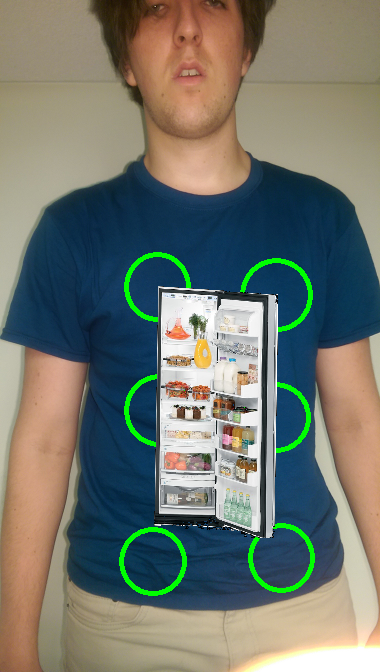
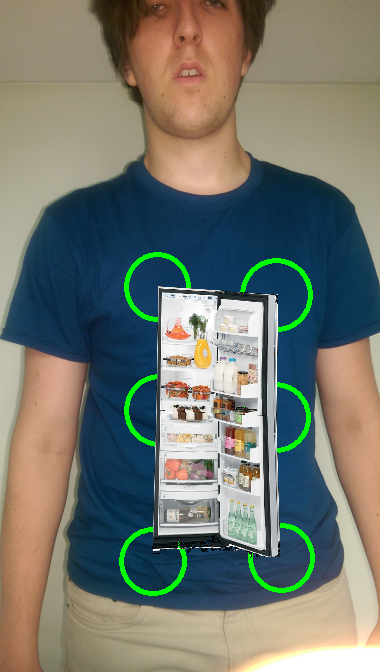
Updated code

Changed region(s): [[0.4053, 0.5938, 0.7526, 0.8438]]

diff --git a/main.py b/main.py
@@ -246,27 +246,32 @@ print circles
 
 
 img2 = cv2.imread('Dispatcher.png')
-
+img2A = img2[0:len(img2)/2,:]
+img2B = img2[len(img2)/2:len(img2),:]
 # image_1_kp = [[158, 286], [278, 294], [156, 410], [276, 416], [152, 562], [280, 556]]
 # image_1_kp = [[158-30, 286-30], [278+37, 294-37], [156-33, 410+33], [276+38, 416+38]]
 
-image_1_kp = [[158, 286], [278, 294], [156, 410], [276, 416]]
+image_1_kpA = [[158, 286], [278, 294], [156, 410], [276, 416]]
+image_1_kpB = [[156, 410], [276, 416], [152, 562], [280, 556]]
+
 # image_2_kp = [[0, 0], [img2.shape[1],0], [0, img2.shape[0] / 2], [img2.shape[1], img2.shape[0] / 2], [0, img2.shape[0]], [img2.shape[1], img2.shape[0]]]
-image_2_kp = [[0, 0], [img2.shape[1],0], [0, img2.shape[0] / 2], [img2.shape[1], img2.shape[0] / 2]]
+image_2_kpA = [[0, 0], [img2A.shape[1],0], [0, img2A.shape[0]], [img2A.shape[1], img2A.shape[0]]]
+image_2_kpB = [[0, 0], [img2B.shape[1],0], [0, img2B.shape[0]], [img2B.shape[1], img2B.shape[0]]]
 
-
-H = findHomography(image_2_kp, image_1_kp)
-print H
+HA = findHomography(image_2_kpA, image_1_kpA)
+HB = findHomography(image_2_kpB, image_1_kpB)
+# print H
 # finalImage = warpImagePair(img2, img, H)
 
 # bottomRight = np.dot( homography, [[img2.shape[0]], [img2.shape[1]], [1]] )
 
-finalImage = cv2.warpPerspective(img2,H,(img.shape[1], img.shape[0]))
+finalImageA = cv2.warpPerspective(img2A,HA,(img.shape[1], img.shape[0]))
+finalImageB = cv2.warpPerspective(img2B,HB,(img.shape[1], img.shape[0]))
 
 
 
 
-cv2.imwrite( 'warped.png', finalImage)
+# cv2.imwrite( 'warped.png', finalImage)
 
 print img[0,10]
 
@@ -274,10 +279,18 @@ colorOriginal = cv2.imread('testgreenAw.png')
 
 for y in range(0, colorOriginal.shape[0]):
 	for x in range(0, colorOriginal.shape[1]):
-		if ( finalImage[y, x][0] != 0 ) and ( finalImage[y, x][1] != 0 ) and ( finalImage[y, x][2] != 0 ):
-			colorOriginal[y,x][0] = finalImage[y,x][0]
-			colorOriginal[y,x][1] = finalImage[y,x][1]
-			colorOriginal[y,x][2] = finalImage[y,x][2]
+		if ( finalImageA[y, x][0] != 0 ) and ( finalImageA[y, x][1] != 0 ) and ( finalImageA[y, x][2] != 0 ):
+			colorOriginal[y,x][0] = finalImageA[y,x][0]
+			colorOriginal[y,x][1] = finalImageA[y,x][1]
+			colorOriginal[y,x][2] = finalImageA[y,x][2]
+
+
+for y in range(0, colorOriginal.shape[0]):
+	for x in range(0, colorOriginal.shape[1]):
+		if ( finalImageB[y, x][0] != 0 ) and ( finalImageB[y, x][1] != 0 ) and ( finalImageB[y, x][2] != 0 ):
+			colorOriginal[y,x][0] = finalImageB[y,x][0]
+			colorOriginal[y,x][1] = finalImageB[y,x][1]
+			colorOriginal[y,x][2] = finalImageB[y,x][2]
 
 
 cv2.imwrite( 'final.png', colorOriginal)
